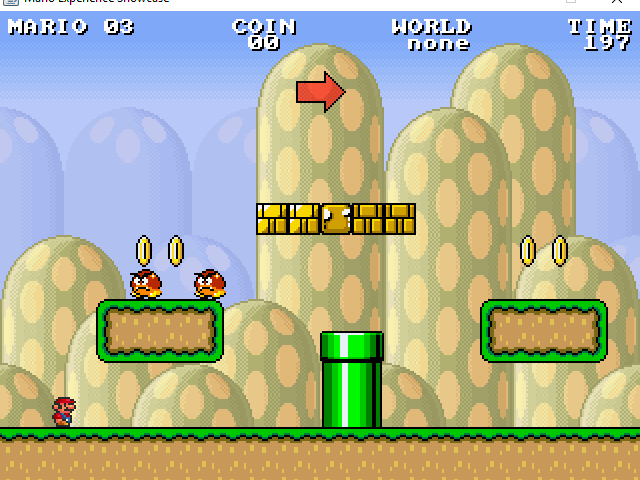
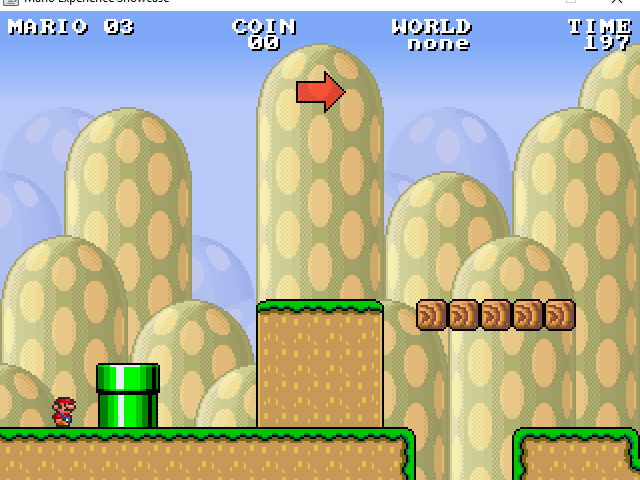
removing decorations

diff --git a/PruningMarioResearch/src/beauty/BeautyCustomizedLevel.java b/PruningMarioResearch/src/beauty/BeautyCustomizedLevel.java
@@ -476,7 +476,7 @@ public class BeautyCustomizedLevel extends Level{
 //	    		BestGlobalstates=Beststates5;
 //	    	}
 	    	
-	    	BestGlobalstates=Beststates6;
+	    	BestGlobalstates=Beststates5;
 	        
 	        
 	    	//**System.out.println("Simetry 0-> Brute-force search order "+objGrapB3a.bestSymmetryV);	
@@ -1031,8 +1031,8 @@ public class BeautyCustomizedLevel extends Level{
 	        		
 	        		}
             }
-	        boolean enemyAddedBefore=addEnemyLineMountains(xCoin + 1, xCoin + widthElement - 1, floor-heigthElement - 1);
-	        decorateMountainsFloat(xCoin , xCoin + widthElement , floor-heigthElement - 1,enemyAddedBefore,finalListElements,states);
+	        //boolean enemyAddedBefore=addEnemyLineMountains(xCoin + 1, xCoin + widthElement - 1, floor-heigthElement - 1);
+	        //decorateMountainsFloat(xCoin , xCoin + widthElement , floor-heigthElement - 1,enemyAddedBefore,finalListElements,states);
 	        return mLevel;
 	    }
 	    
@@ -1124,8 +1124,8 @@ public class BeautyCustomizedLevel extends Level{
 	        		}
 	        		}
             }
-	        boolean enemyAddedBefore=addEnemyLineMountains(xJump + 1, xJump + widthElement - 1, floor-heigthElement - 1);
-	        decorateMountains(xJump , xJump + widthElement , floor-heigthElement - 1, finalListElements, states,enemyAddedBefore);
+	        //boolean enemyAddedBefore=addEnemyLineMountains(xJump + 1, xJump + widthElement - 1, floor-heigthElement - 1);
+	        //decorateMountains(xJump , xJump + widthElement , floor-heigthElement - 1, finalListElements, states,enemyAddedBefore);
 	    	return mLevel;
 	    }
 	    
@@ -1436,7 +1436,7 @@ public class BeautyCustomizedLevel extends Level{
                     }
                 }
             }*/
-	           addEnemyLineBlocks(xBlock + 1, xBlock + widthElement - 1, floor-heigthElement - 1);
+	           //addEnemyLineBlocks(xBlock + 1, xBlock + widthElement - 1, floor-heigthElement - 1);
 	           return mLevel;
 	    }
 	    
@@ -1480,7 +1480,7 @@ public class BeautyCustomizedLevel extends Level{
 	        	   mLevel.setBlock(x, floor, (byte) 12);
 	            }
         
-	           decorate(xBlock , xBlock + widthElement , floor-heigthElement - 1,finalListElements, states);
+	           //decorate(xBlock , xBlock + widthElement , floor-heigthElement - 1,finalListElements, states);
 	           return mLevel;
 	    }
 	    private Level buildWood(BlockNode elemento, Level mLevel)

diff --git a/PruningMarioResearch/src/dk/itu/mario/scene/LevelSceneTest.java b/PruningMarioResearch/src/dk/itu/mario/scene/LevelSceneTest.java
@@ -155,7 +155,7 @@ import dk.itu.mario.res.ResourcesManager;
 			        		int SizeOddsEnemies2 = objElem.SizeOddsEnemies;
 			        		
 			    	        
-			        		currentLevel = new BeautyCustomizedLevel(84, 15, newSeed, 1,levelType,counterIts,hsObjectsScreen,1,odds,objElem,wParamether,methodSearch);		        		
+			        		currentLevel = new BeautyCustomizedLevel(84, 15, newSeed, 2,levelType,counterIts,hsObjectsScreen,1,odds,objElem,wParamether,methodSearch);		        		
 			    			
 			        		counterIts++;
 			        					        		
@@ -164,7 +164,7 @@ import dk.itu.mario.res.ResourcesManager;
 			        		objElem2.SizeOdds=SizeOdds2;
 			        		objElem2.SizeOddsEnemies=SizeOddsEnemies2;
 			        	
-			        		currentLevel = new BeautyCustomizedLevel(84, 15, newSeed, 1,levelType,counterIts,hsObjectsScreen,2,odds2,objElem2,wParamether,methodSearch);		        		
+			        		currentLevel = new BeautyCustomizedLevel(84, 15, newSeed, 2,levelType,counterIts,hsObjectsScreen,2,odds2,objElem2,wParamether,methodSearch);		        		
 			    			
 			        		counterIts++;
 			    			}
@@ -196,7 +196,7 @@ import dk.itu.mario.res.ResourcesManager;
 		    			
 		    			}
 		    			//finish program to avoid problems with GUI in the cluster.
-		    	    	System.exit(0);
+		    	    	//System.exit(0);
 
 		        		//********mthod for load and print beauty screens*******//
 		    			

diff --git a/PruningMarioResearch/src/dk/itu/mario/engine/GenerationForm.java b/PruningMarioResearch/src/dk/itu/mario/engine/GenerationForm.java
@@ -94,10 +94,10 @@ public class GenerationForm {
 	  	/*---------------------to Generate screens------------------------*/
 		
 			int numElementsGlobalParamet=4; 
-			double wParamether=3;
+			double wParamether=1;
 			int methodSearch=3;
 			Random rand = new Random();
-			long seedM = rand.nextLong();
+			long seedM = rand.nextInt();
 			System.out.println("seed "+seedM);
 	    	JFrame frame = new JFrame("Mario Experience Showcase");
 	    	MarioComponent mario = new MarioComponent(640, 480,true," ",5,numElementsGlobalParamet,wParamether,methodSearch,seedM);
